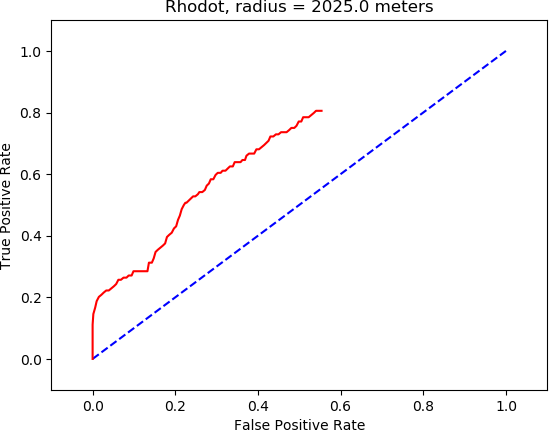
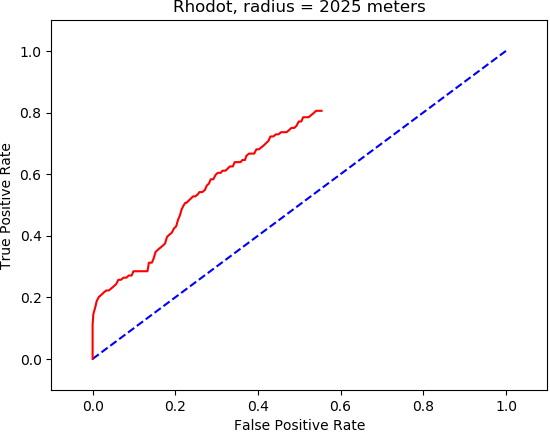
fixed radius

Changed region(s): [[0.2782, 0.0, 0.8036, 0.03]]

diff --git a/plot_roc.py b/plot_roc.py
@@ -16,12 +16,13 @@ with hp.File('850mb_300m_10min_NAM_Rhodot_Origin_t=0-215hrs_Sept2017.hdf5','r') 
     t = data['t'][:].squeeze()
     data.close()
 for radius in np.linspace(100,10000,37):#[1,10,100,500,1000,5000,10000,15000]:
+    radius=int(radius)
     rhodot_TPR = []
     rhodot_FPR = []
     s1_TPR = []
     s1_FPR = []
     for percent in np.arange(0,101,1):
-        passing_times = np.load('passing_files/passing_times_{0:03d}th_percentile_radius={1:05d}.npy'.format(90,int(radius)))+24            
+        passing_times = np.load('passing_files/passing_times_{0:03d}th_percentile_radius={1:05d}.npy'.format(90,radius))+24            
         #passing_times = np.load('passing_files/passing_times_{0:03d}th_percentile_radius={1:05d}.npy'.format(percent,radius))+24            
         thresh_rhodot = -np.percentile(-rhodot[rhodot<0],percent)
         thresh_s1 = -np.percentile(-s1[s1<0],percent)
@@ -117,7 +118,7 @@ for radius in np.linspace(100,10000,37):#[1,10,100,500,1000,5000,10000,15000]:
     plt.title('Rhodot, radius = {0} meters'.format(radius))
     plt.xlim([-0.1,1.1])
     plt.ylim([-0.1,1.1])
-    plt.savefig('Rhodot_ROC_radius={0:05d}_no_ftle_thresh.png'.format(int(radius)), transparent=False, bbox_inches='tight',pad_inches=0)
+    plt.savefig('Rhodot_ROC_radius={0:05d}_no_ftle_thresh.png'.format(radius), transparent=False, bbox_inches='tight',pad_inches=0)
     #plt.savefig('Rhodot_ROC_radius={0:05d}.png'.format(radius), transparent=False, bbox_inches='tight',pad_inches=0)
     
     plt.figure(2)
@@ -129,7 +130,7 @@ for radius in np.linspace(100,10000,37):#[1,10,100,500,1000,5000,10000,15000]:
     plt.title('s1, radius = {0} meters'.format(radius))
     plt.xlim([-0.1,1.1])
     plt.ylim([-0.1,1.1])
-    plt.savefig('S1_ROC_radius={0:05d}_no_ftle_thresh.png'.format(int(radius)), transparent=False, bbox_inches='tight',pad_inches=0)
+    plt.savefig('S1_ROC_radius={0:05d}_no_ftle_thresh.png'.format(radius), transparent=False, bbox_inches='tight',pad_inches=0)
     #plt.savefig('S1_ROC_radius={0:05d}.png'.format(radius), transparent=False, bbox_inches='tight',pad_inches=0)
     '''
     plt.figure(3)
